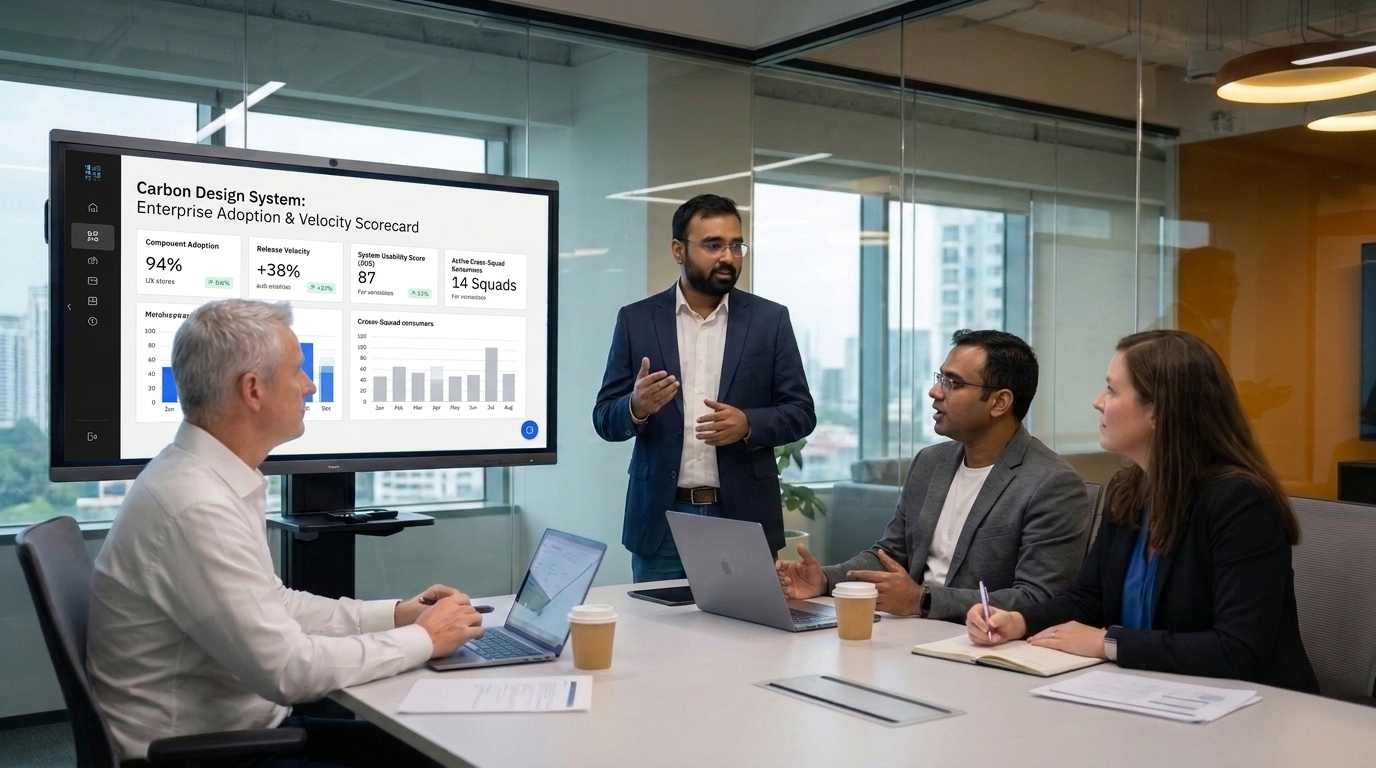
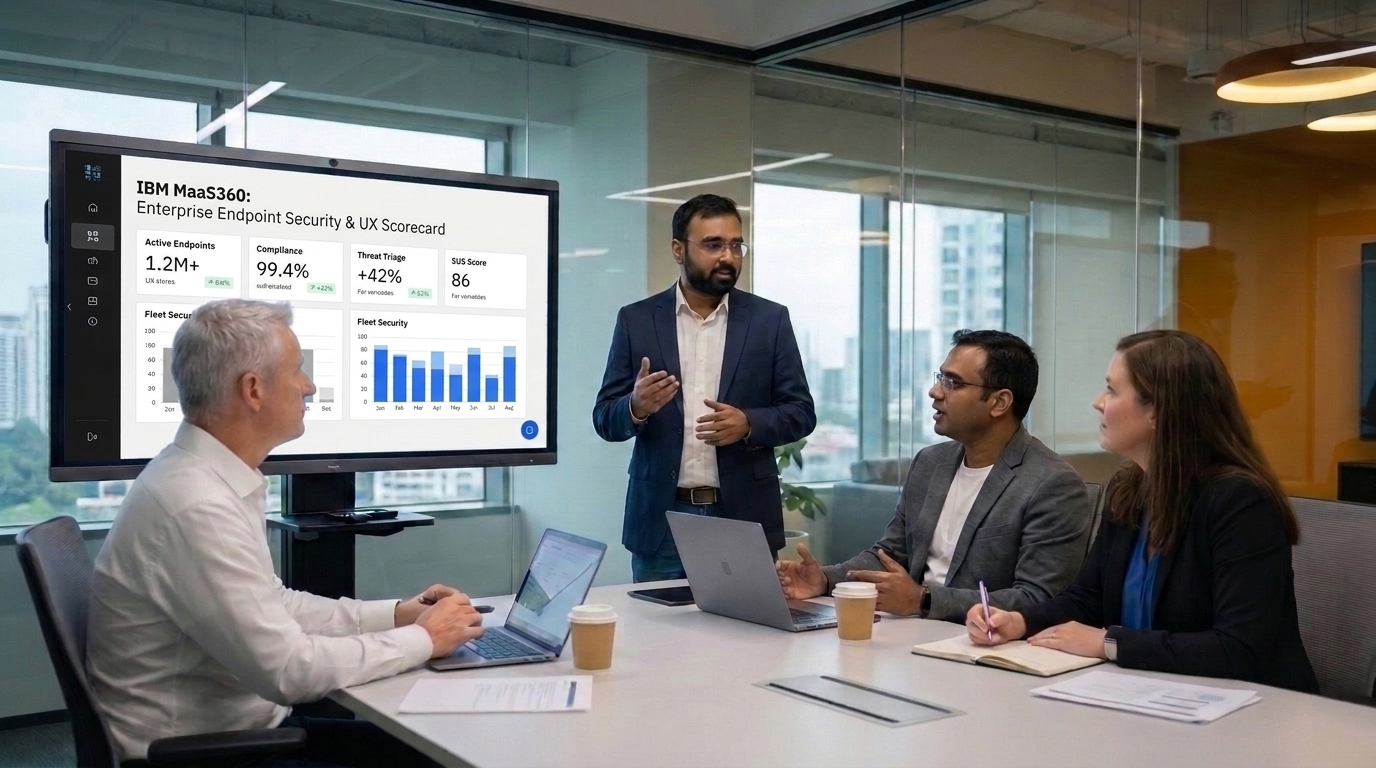
fix(gallery): sharpen presenter facial details and replace display with IBM MaaS360 endpoint security scorecard

diff --git a/gallery.html b/gallery.html
@@ -570,9 +570,9 @@
           <span class="card-badge badge-global">Global Leadership</span>
         </div>
         <div class="card-content">
-          <div class="card-role">Carbon Design System Governance • Global Review</div>
-          <h3 class="card-title">Carbon Design System: Enterprise Adoption &amp; Velocity Scorecard</h3>
-          <p class="card-desc">Reviewing multi-squad component adoption (94%) and velocity ROI with cross-functional engineering leads and product executives. Driving design consistency and sprint velocity across 14 enterprise squads.</p>
+          <div class="card-role">IBM MaaS360 • Enterprise Strategy Review</div>
+          <h3 class="card-title">IBM MaaS360: Enterprise Endpoint Security &amp; UX Modernization</h3>
+          <p class="card-desc">Reviewing unified endpoint security architecture, policy compliance telemetry (1.2M+ devices), and AI threat triage velocity (+42%) with cross-functional engineering leads and product executives.</p>
           <div class="card-footer">
             <span class="btn-view-photo">Enlarge Moment &rarr;</span>
           </div>
@@ -922,7 +922,7 @@
   </footer>
 
   <script>
-    const galleryData = [{"id": "global-1", "category": "global", "category_label": "Global Leadership", "badge_color": "bg-blue-600", "image": "assets/gallery/gallery_boardroom_review.jpg", "title": "Carbon Design System: Enterprise Adoption & Velocity Scorecard", "role": "Carbon Design System Governance \u2022 Global Review", "desc": "Reviewing multi-squad component adoption (94%) and velocity ROI with cross-functional engineering leads and product executives. Driving design consistency and sprint velocity across 14 enterprise squads."}, {"id": "ibm-1", "category": "ibm", "category_label": "IBM Software Labs", "badge_color": "bg-indigo-600", "image": "assets/gallery/gallery_whiteboard_sprint.jpg", "title": "Enterprise AI System Architecture & Whiteboard Sprint", "role": "Senior UX Manager \u2022 IBM Watson & Enterprise Modeling", "desc": "Collaborating on complex system architecture and user flow modeling with global engineering leads and product architects, ensuring seamless AI-UX integration for enterprise SaaS."}, {"id": "ibm-2", "category": "ibm", "category_label": "IBM Software Labs", "badge_color": "bg-indigo-600", "image": "assets/gallery/gallery_ibm_global_trio.jpg", "title": "Global Product Leadership Sync at IBM Software Labs", "role": "Senior UX Manager \u2022 Global Cross-Functional Alignment", "desc": "Standing with European and American product leadership counterparts in the IBM corridor following an executive UX alignment review on enterprise endpoint management."}, {"id": "ibm-full-team", "category": "ibm", "category_label": "IBM Software Labs", "badge_color": "bg-indigo-600", "image": "assets/gallery/gallery_gear_team.jpg", "title": "The Full Enterprise Design Team", "role": "Senior UX Manager \u2022 Complete Design Organization", "desc": "The complete enterprise product design team gathered together, comprising UI/UX designers, design researchers, and global design leadership across enterprise product tracks."}, {"id": "ibm-3", "category": "ibm", "category_label": "IBM Software Labs", "badge_color": "bg-indigo-600", "image": "assets/gallery/gallery_real_ibm_team_floor.jpg", "title": "The IBM Software Labs Enterprise Design Squad", "role": "Senior UX Manager \u2022 12-Designer Enterprise Studio", "desc": "On the IBM design floor with the dedicated enterprise UX team responsible for Rhapsody SE, MaaS360, and core enterprise AI capabilities across mission-critical products."}, {"id": "zebra-usability-desk", "category": "zebra", "category_label": "Zebra Technologies", "badge_color": "bg-amber-600", "image": "assets/gallery/gallery_zebra_usability_desk.jpg", "title": "Handheld Scanner Ergonomics & Touch Usability Review", "role": "Product Design Manager \u2022 Hardware-Software Usability", "desc": "Collaborating with senior engineering leads at a studio standing desk, validating one-handed thumb-reach zones and screen interaction flows on rugged enterprise mobile touch computers."}, {"id": "global-townhall-talk", "category": "global", "category_label": "Global Leadership", "badge_color": "bg-blue-600", "image": "assets/gallery/gallery_townhall_review.jpg", "title": "Design System Sprint Review & Chapter Townhall", "role": "UI/UX Design Manager \u2022 Chapter Lead & Sprint Demo", "desc": "Presenting Design System component adoption metrics, token architecture, and sprint velocity to product managers, engineering leads, and design squad members in an open studio townhall."}, {"id": "global-3", "category": "global", "category_label": "Global Leadership", "badge_color": "bg-blue-600", "image": "assets/gallery/gallery_journey_warroom.jpg", "title": "Multi-Tenant User Journey War Room & Discovery Session", "role": "Lead Design Strategist \u2022 Enterprise Journey Mapping", "desc": "Leading an interactive design discovery workshop with international researchers and architects, mapping multi-tenant touchpoints and identifying mission-critical cognitive bottlenecks."}, {"id": "zebra-2", "category": "zebra", "category_label": "Zebra Technologies", "badge_color": "bg-amber-600", "image": "assets/gallery/gallery_real_zebra_stage_solo.jpg", "title": "Zebra Technologies Innovation Celebration: Srujana 2022", "role": "Design Manager \u2022 Annual Innovation Stage", "desc": "Recognized for UX innovation and design team scale at the Zebra Technologies annual innovation summit, celebrating culture, team spirit, and creative momentum."}, {"id": "zebra-3", "category": "zebra", "category_label": "Zebra Technologies", "badge_color": "bg-amber-600", "image": "assets/gallery/gallery_real_zebra_stage_trio.jpg", "title": "Design Leadership at Zebra Innovation Summit", "role": "UI/UX Product Design Manager \u2022 Design Team Mentorship", "desc": "With design team leads on the main stage at Zebra Srujana, reflecting a vibrant design studio culture that scaled from reactive delivery to strategic innovation."}, {"id": "zebra-4", "category": "zebra", "category_label": "Zebra Technologies", "badge_color": "bg-amber-600", "image": "assets/gallery/gallery_real_zebra_stage_full.jpg", "title": "Studio Showcase: Zebra Enterprise Design Squad", "role": "UI/UX Product Design Manager \u2022 Organizational Pedigree", "desc": "Stage presence at Zebra Technologies corporate convention, highlighting the design team's role in powering 80,000+ commercial fleets and global enterprise accounts."}, {"id": "zebra-5", "category": "zebra", "category_label": "Zebra Technologies", "badge_color": "bg-amber-600", "image": "assets/gallery/gallery_real_zebra_convention.jpg", "title": "Zebra Global Innovation Convention Floor", "role": "Design Manager \u2022 All-Hands Gathering", "desc": "In the grand hall of the annual Zebra all-hands convention alongside fellow engineering and product leaders representing the India Design Center."}, {"id": "zebra-6", "category": "zebra", "category_label": "Zebra Technologies", "badge_color": "bg-amber-600", "image": "assets/gallery/gallery_real_zebra_audience.jpg", "title": "Executive Keynotes: Zebra Innovation Summit Auditorium", "role": "Design Leadership \u2022 Strategic Alignment", "desc": "Front-row at the Zebra annual technology summit, absorbing global corporate vision, enterprise roadmaps, and cross-business unit technological breakthroughs."}, {"id": "ericsson-1", "category": "ericsson", "category_label": "Ericsson Global", "badge_color": "bg-emerald-600", "image": "assets/gallery/gallery_ericsson_selfie.jpg", "title": "Ericsson Global Hack-fest & Innovation Celebration", "role": "UI/UX Designer \u2022 1st Place Global Optimization", "desc": "Celebrating with the Ericsson team after securing 1st place in the Global Hack-fest Optimization Contest, fostering an enduring culture of UX innovation."}, {"id": "ericsson-2", "category": "ericsson", "category_label": "Ericsson Global", "badge_color": "bg-emerald-600", "image": "assets/gallery/gallery_real_ericsson_lounge.jpg", "title": "Ericsson Design Studio Lounge & Morning Sync", "role": "UI/UX Designer \u2022 Telecommunications Infrastructure", "desc": "A candid morning pause at the Ericsson campus lounge with the signature Ericsson coffee mug, where cross-functional design sprints and design system governance began."}, {"id": "culture-1", "category": "culture", "category_label": "Team Culture", "badge_color": "bg-rose-600", "image": "assets/gallery/gallery_real_campus_courtyard.jpg", "title": "Tech Park Courtyard Huddle: Enterprise Campus", "role": "Design Manager \u2022 Informal Sprint Sync", "desc": "Taking design strategy out of the boardroom into the campus courtyard with squad leads, fostering camaraderie and high-trust peer relationships."}, {"id": "culture-2", "category": "culture", "category_label": "Team Culture", "badge_color": "bg-rose-600", "image": "assets/gallery/gallery_real_team_lunch.jpg", "title": "Studio Milestone Celebration Lunch", "role": "Design Manager \u2022 Team Bonding & Retention", "desc": "Celebrating sprint velocity and design system releases over an authentic team banquet, building strong personal connections that drove low team attrition."}, {"id": "culture-3", "category": "culture", "category_label": "Team Culture", "badge_color": "bg-rose-600", "image": "assets/gallery/gallery_real_bowling_night.jpg", "title": "Design Studio Bowling Championship & Offsite", "role": "Design Leader \u2022 Team Morale & Camaraderie", "desc": "Energizing the design squad at an offsite bowling evening, proving that world-class design delivery is sustained by genuine mutual trust and shared joy."}, {"id": "culture-4", "category": "culture", "category_label": "Team Culture", "badge_color": "bg-rose-600", "image": "assets/gallery/gallery_real_holiday_cubicle.jpg", "title": "Holiday Bay Celebration & Hybrid Remote Sync", "role": "Design Manager \u2022 Inclusive Hybrid Culture", "desc": "Bringing in festive joy with holiday cubicle decor while looping in remote teammates on video call, ensuring every designer feels connected regardless of location."}, {"id": "culture-5", "category": "culture", "category_label": "Team Culture", "badge_color": "bg-rose-600", "image": "assets/gallery/gallery_real_festive_desk.jpg", "title": "Traditional Festivities at the Office Bay", "role": "Design Manager \u2022 Authentic Workplace Culture", "desc": "Embracing cultural heritage with traditional attire at the workplace during festive celebrations, championing diversity and authentic personal expression."}, {"id": "culture-6", "category": "culture", "category_label": "Team Culture", "badge_color": "bg-rose-600", "image": "assets/gallery/gallery_real_kite_workshop.jpg", "title": "Hands-on Creative Workshop & Artifact Showcase", "role": "Design Mentor \u2022 Creative Expression", "desc": "Leading a tactile craft workshop emphasizing color theory, tactile prototyping, and creative storytelling beyond digital screens."}];
+    const galleryData = [{"id": "global-1", "category": "global", "category_label": "Global Leadership", "badge_color": "bg-blue-600", "image": "assets/gallery/gallery_boardroom_review.jpg", "title": "IBM MaaS360: Enterprise Endpoint Security & UX Modernization", "role": "IBM MaaS360 \u2022 Enterprise Strategy Review", "desc": "Reviewing unified endpoint security architecture, policy compliance telemetry (1.2M+ devices), and AI threat triage velocity (+42%) with cross-functional engineering leads and product executives."}, {"id": "ibm-1", "category": "ibm", "category_label": "IBM Software Labs", "badge_color": "bg-indigo-600", "image": "assets/gallery/gallery_whiteboard_sprint.jpg", "title": "Enterprise AI System Architecture & Whiteboard Sprint", "role": "Senior UX Manager \u2022 IBM Watson & Enterprise Modeling", "desc": "Collaborating on complex system architecture and user flow modeling with global engineering leads and product architects, ensuring seamless AI-UX integration for enterprise SaaS."}, {"id": "ibm-2", "category": "ibm", "category_label": "IBM Software Labs", "badge_color": "bg-indigo-600", "image": "assets/gallery/gallery_ibm_global_trio.jpg", "title": "Global Product Leadership Sync at IBM Software Labs", "role": "Senior UX Manager \u2022 Global Cross-Functional Alignment", "desc": "Standing with European and American product leadership counterparts in the IBM corridor following an executive UX alignment review on enterprise endpoint management."}, {"id": "ibm-full-team", "category": "ibm", "category_label": "IBM Software Labs", "badge_color": "bg-indigo-600", "image": "assets/gallery/gallery_gear_team.jpg", "title": "The Full Enterprise Design Team", "role": "Senior UX Manager \u2022 Complete Design Organization", "desc": "The complete enterprise product design team gathered together, comprising UI/UX designers, design researchers, and global design leadership across enterprise product tracks."}, {"id": "ibm-3", "category": "ibm", "category_label": "IBM Software Labs", "badge_color": "bg-indigo-600", "image": "assets/gallery/gallery_real_ibm_team_floor.jpg", "title": "The IBM Software Labs Enterprise Design Squad", "role": "Senior UX Manager \u2022 12-Designer Enterprise Studio", "desc": "On the IBM design floor with the dedicated enterprise UX team responsible for Rhapsody SE, MaaS360, and core enterprise AI capabilities across mission-critical products."}, {"id": "zebra-usability-desk", "category": "zebra", "category_label": "Zebra Technologies", "badge_color": "bg-amber-600", "image": "assets/gallery/gallery_zebra_usability_desk.jpg", "title": "Handheld Scanner Ergonomics & Touch Usability Review", "role": "Product Design Manager \u2022 Hardware-Software Usability", "desc": "Collaborating with senior engineering leads at a studio standing desk, validating one-handed thumb-reach zones and screen interaction flows on rugged enterprise mobile touch computers."}, {"id": "global-townhall-talk", "category": "global", "category_label": "Global Leadership", "badge_color": "bg-blue-600", "image": "assets/gallery/gallery_townhall_review.jpg", "title": "Design System Sprint Review & Chapter Townhall", "role": "UI/UX Design Manager \u2022 Chapter Lead & Sprint Demo", "desc": "Presenting Design System component adoption metrics, token architecture, and sprint velocity to product managers, engineering leads, and design squad members in an open studio townhall."}, {"id": "global-3", "category": "global", "category_label": "Global Leadership", "badge_color": "bg-blue-600", "image": "assets/gallery/gallery_journey_warroom.jpg", "title": "Multi-Tenant User Journey War Room & Discovery Session", "role": "Lead Design Strategist \u2022 Enterprise Journey Mapping", "desc": "Leading an interactive design discovery workshop with international researchers and architects, mapping multi-tenant touchpoints and identifying mission-critical cognitive bottlenecks."}, {"id": "zebra-2", "category": "zebra", "category_label": "Zebra Technologies", "badge_color": "bg-amber-600", "image": "assets/gallery/gallery_real_zebra_stage_solo.jpg", "title": "Zebra Technologies Innovation Celebration: Srujana 2022", "role": "Design Manager \u2022 Annual Innovation Stage", "desc": "Recognized for UX innovation and design team scale at the Zebra Technologies annual innovation summit, celebrating culture, team spirit, and creative momentum."}, {"id": "zebra-3", "category": "zebra", "category_label": "Zebra Technologies", "badge_color": "bg-amber-600", "image": "assets/gallery/gallery_real_zebra_stage_trio.jpg", "title": "Design Leadership at Zebra Innovation Summit", "role": "UI/UX Product Design Manager \u2022 Design Team Mentorship", "desc": "With design team leads on the main stage at Zebra Srujana, reflecting a vibrant design studio culture that scaled from reactive delivery to strategic innovation."}, {"id": "zebra-4", "category": "zebra", "category_label": "Zebra Technologies", "badge_color": "bg-amber-600", "image": "assets/gallery/gallery_real_zebra_stage_full.jpg", "title": "Studio Showcase: Zebra Enterprise Design Squad", "role": "UI/UX Product Design Manager \u2022 Organizational Pedigree", "desc": "Stage presence at Zebra Technologies corporate convention, highlighting the design team's role in powering 80,000+ commercial fleets and global enterprise accounts."}, {"id": "zebra-5", "category": "zebra", "category_label": "Zebra Technologies", "badge_color": "bg-amber-600", "image": "assets/gallery/gallery_real_zebra_convention.jpg", "title": "Zebra Global Innovation Convention Floor", "role": "Design Manager \u2022 All-Hands Gathering", "desc": "In the grand hall of the annual Zebra all-hands convention alongside fellow engineering and product leaders representing the India Design Center."}, {"id": "zebra-6", "category": "zebra", "category_label": "Zebra Technologies", "badge_color": "bg-amber-600", "image": "assets/gallery/gallery_real_zebra_audience.jpg", "title": "Executive Keynotes: Zebra Innovation Summit Auditorium", "role": "Design Leadership \u2022 Strategic Alignment", "desc": "Front-row at the Zebra annual technology summit, absorbing global corporate vision, enterprise roadmaps, and cross-business unit technological breakthroughs."}, {"id": "ericsson-1", "category": "ericsson", "category_label": "Ericsson Global", "badge_color": "bg-emerald-600", "image": "assets/gallery/gallery_ericsson_selfie.jpg", "title": "Ericsson Global Hack-fest & Innovation Celebration", "role": "UI/UX Designer \u2022 1st Place Global Optimization", "desc": "Celebrating with the Ericsson team after securing 1st place in the Global Hack-fest Optimization Contest, fostering an enduring culture of UX innovation."}, {"id": "ericsson-2", "category": "ericsson", "category_label": "Ericsson Global", "badge_color": "bg-emerald-600", "image": "assets/gallery/gallery_real_ericsson_lounge.jpg", "title": "Ericsson Design Studio Lounge & Morning Sync", "role": "UI/UX Designer \u2022 Telecommunications Infrastructure", "desc": "A candid morning pause at the Ericsson campus lounge with the signature Ericsson coffee mug, where cross-functional design sprints and design system governance began."}, {"id": "culture-1", "category": "culture", "category_label": "Team Culture", "badge_color": "bg-rose-600", "image": "assets/gallery/gallery_real_campus_courtyard.jpg", "title": "Tech Park Courtyard Huddle: Enterprise Campus", "role": "Design Manager \u2022 Informal Sprint Sync", "desc": "Taking design strategy out of the boardroom into the campus courtyard with squad leads, fostering camaraderie and high-trust peer relationships."}, {"id": "culture-2", "category": "culture", "category_label": "Team Culture", "badge_color": "bg-rose-600", "image": "assets/gallery/gallery_real_team_lunch.jpg", "title": "Studio Milestone Celebration Lunch", "role": "Design Manager \u2022 Team Bonding & Retention", "desc": "Celebrating sprint velocity and design system releases over an authentic team banquet, building strong personal connections that drove low team attrition."}, {"id": "culture-3", "category": "culture", "category_label": "Team Culture", "badge_color": "bg-rose-600", "image": "assets/gallery/gallery_real_bowling_night.jpg", "title": "Design Studio Bowling Championship & Offsite", "role": "Design Leader \u2022 Team Morale & Camaraderie", "desc": "Energizing the design squad at an offsite bowling evening, proving that world-class design delivery is sustained by genuine mutual trust and shared joy."}, {"id": "culture-4", "category": "culture", "category_label": "Team Culture", "badge_color": "bg-rose-600", "image": "assets/gallery/gallery_real_holiday_cubicle.jpg", "title": "Holiday Bay Celebration & Hybrid Remote Sync", "role": "Design Manager \u2022 Inclusive Hybrid Culture", "desc": "Bringing in festive joy with holiday cubicle decor while looping in remote teammates on video call, ensuring every designer feels connected regardless of location."}, {"id": "culture-5", "category": "culture", "category_label": "Team Culture", "badge_color": "bg-rose-600", "image": "assets/gallery/gallery_real_festive_desk.jpg", "title": "Traditional Festivities at the Office Bay", "role": "Design Manager \u2022 Authentic Workplace Culture", "desc": "Embracing cultural heritage with traditional attire at the workplace during festive celebrations, championing diversity and authentic personal expression."}, {"id": "culture-6", "category": "culture", "category_label": "Team Culture", "badge_color": "bg-rose-600", "image": "assets/gallery/gallery_real_kite_workshop.jpg", "title": "Hands-on Creative Workshop & Artifact Showcase", "role": "Design Mentor \u2022 Creative Expression", "desc": "Leading a tactile craft workshop emphasizing color theory, tactile prototyping, and creative storytelling beyond digital screens."}];
     let currentIndex = 0;
     const filteredData = galleryData;
     const cards = document.querySelectorAll('.gallery-card');

diff --git a/generate_career_gallery.py b/generate_career_gallery.py
@@ -13,9 +13,9 @@ GALLERY_ITEMS = [
         "category_label": "Global Leadership",
         "badge_color": "bg-blue-600",
         "image": "assets/gallery/gallery_boardroom_review.jpg",
-        "title": "Carbon Design System: Enterprise Adoption & Velocity Scorecard",
-        "role": "Carbon Design System Governance • Global Review",
-        "desc": "Reviewing multi-squad component adoption (94%) and velocity ROI with cross-functional engineering leads and product executives. Driving design consistency and sprint velocity across 14 enterprise squads."
+        "title": "IBM MaaS360: Enterprise Endpoint Security & UX Modernization",
+        "role": "IBM MaaS360 • Enterprise Strategy Review",
+        "desc": "Reviewing unified endpoint security architecture, policy compliance telemetry (1.2M+ devices), and AI threat triage velocity (+42%) with cross-functional engineering leads and product executives."
     },
     {
         "id": "ibm-1",
